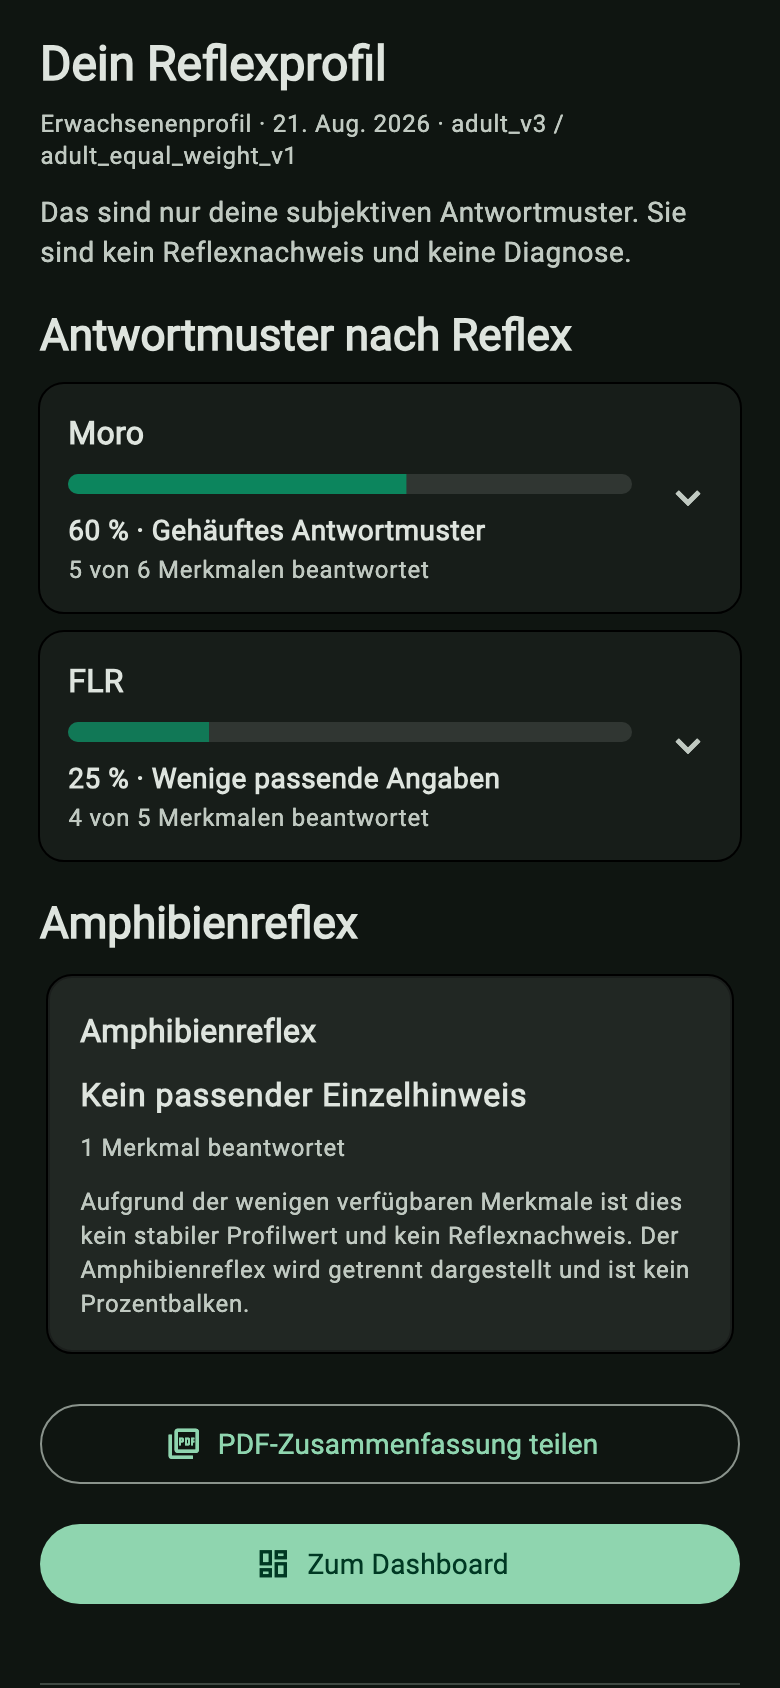
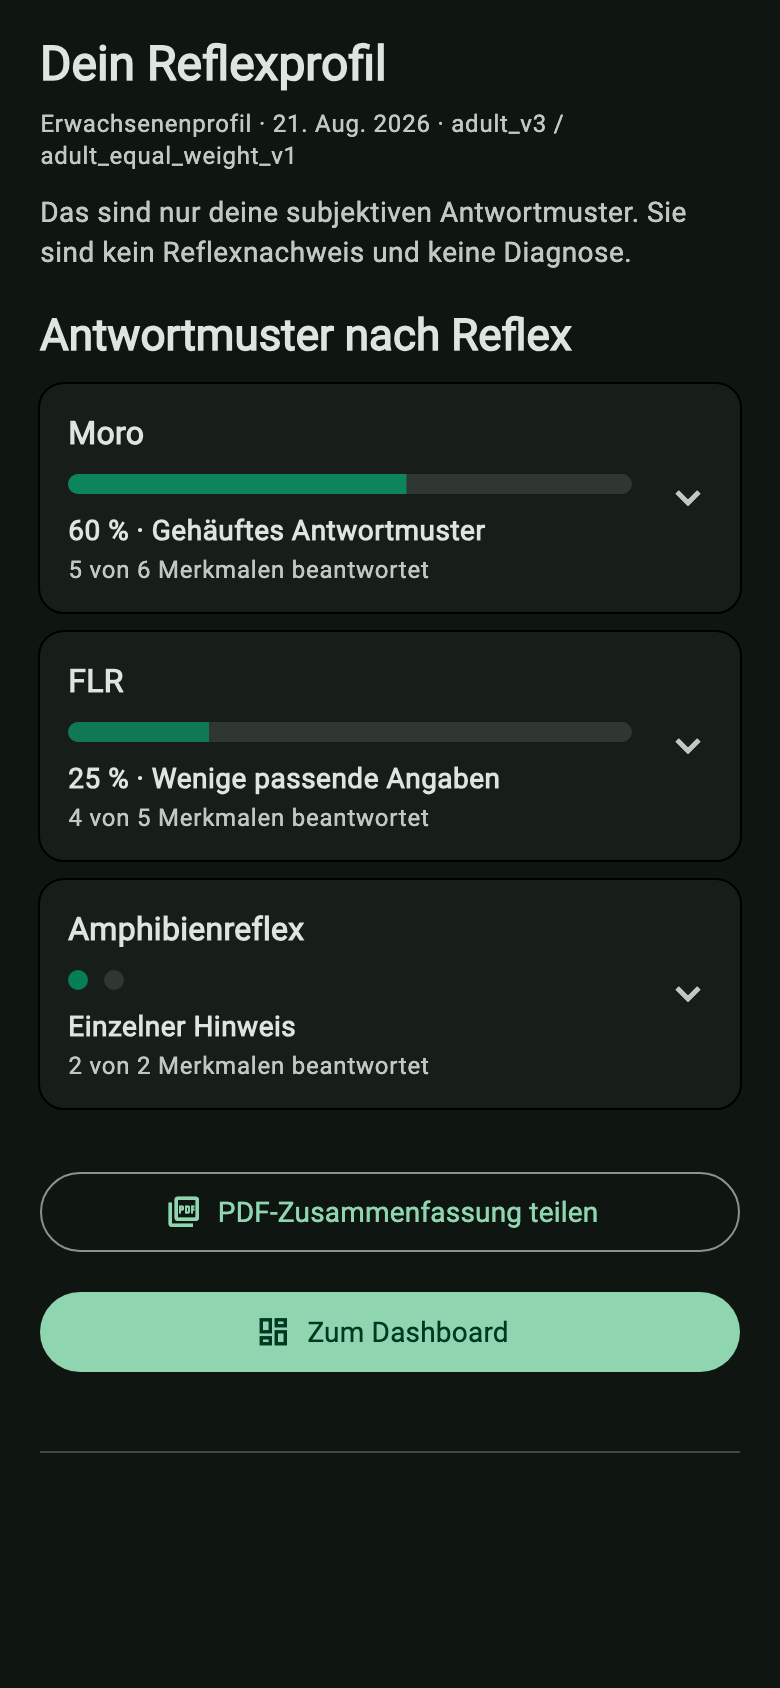
test(assessment)+docs(evidence): assert no amphibian caveat, refresh screenshots (P2.A)

diff --git a/test/features/assessment/presentation/adult_reflex_profile_result_view_test.dart b/test/features/assessment/presentation/adult_reflex_profile_result_view_test.dart
@@ -7,6 +7,8 @@ import 'package:corejourney/features/assessment/domain/adult_reflex_result_copy.
 import 'package:corejourney/features/assessment/domain/models/reflex_profile_assessment.dart';
 import 'package:corejourney/features/assessment/domain/reflex_questionnaire.dart';
 import 'package:corejourney/features/assessment/presentation/adult_score_band_l10n.dart';
+import 'package:corejourney/features/assessment/presentation/widgets/adult_amphibian_detail_tile.dart';
+import 'package:corejourney/features/assessment/presentation/widgets/adult_reflex_detail_tile.dart';
 import 'package:corejourney/features/assessment/presentation/widgets/adult_reflex_profile_result_view.dart';
 import 'package:corejourney/l10n/app_localizations.dart';
 import 'package:corejourney/l10n/app_localizations_de.dart';
@@ -118,10 +120,10 @@ void main() {
 
       expect(find.text('Dein Reflexprofil'), findsOneWidget);
       expect(find.textContaining('Gehäuftes Antwortmuster'), findsWidgets);
-      expect(find.text('1 Merkmal beantwortet'), findsOneWidget);
+      expect(find.text('1 von 2 Merkmalen beantwortet'), findsOneWidget);
       expect(find.textContaining('Gesamt'), findsNothing);
       expect(find.textContaining('Durchschnitt'), findsNothing);
-      expect(find.textContaining('von 2'), findsNothing);
+      expect(find.textContaining('Aufgrund der wenigen'), findsNothing);
     });
 
     testWidgets('legacy version shows legacy notice instead of bars',
@@ -208,72 +210,104 @@ void main() {
   });
 
   group('adult copy hygiene', () {
-    test('amphibian disclaimer matches adult_v3 Teil B §2 (DE first)', () {
+    test('adult result chrome has no amphibian justification copy', () {
       final de = AppLocalizationsDe();
       final en = AppLocalizationsEn();
-      expect(
-        de.adultResultAmphibianDisclaimer,
-        startsWith(
-          'Aufgrund der wenigen verfügbaren Merkmale ist dies kein stabiler '
-          'Profilwert und kein Reflexnachweis.',
-        ),
-      );
-      expect(de.adultResultAmphibianDisclaimer.contains('kein Reflexnachweis'),
-          isTrue);
-      expect(de.adultResultAmphibianDisclaimer.contains('stabiler Profilwert'),
-          isTrue);
-      expect(en.adultResultAmphibianDisclaimer.contains('stable profile value'),
-          isTrue);
-      expect(en.adultResultAmphibianDisclaimer.contains('reflex finding'),
-          isTrue);
+      final corpus = [
+        de.adultResultTitle,
+        de.adultResultDisclaimer,
+        de.adultResultHintListTitle,
+        de.adultAmphibianInsufficientData,
+        de.adultAmphibianNoneMatching,
+        de.adultAmphibianSingleHint,
+        de.adultAmphibianClearSingleHint,
+        de.adultResultLegacyBody,
+        en.adultResultTitle,
+        en.adultResultDisclaimer,
+        en.adultResultHintListTitle,
+        en.adultAmphibianInsufficientData,
+        en.adultAmphibianNoneMatching,
+        en.adultAmphibianSingleHint,
+        en.adultAmphibianClearSingleHint,
+        en.adultResultLegacyBody,
+      ].join('\n');
+
+      expect(corpus.contains('stabiler Profilwert'), isFalse);
+      expect(corpus.contains('Aufgrund der wenigen'), isFalse);
+      expect(corpus.contains('stable profile value'), isFalse);
+      expect(corpus.contains('few available features'), isFalse);
     });
 
-    testWidgets('amphibian disclaimer visible for every AmphibianDisplay',
+    testWidgets('amphibian card is last in same list with name once',
         (tester) async {
       final de = AppLocalizationsDe();
-      final disclaimer = de.adultResultAmphibianDisclaimer;
+      final amphName = PrimitiveReflex.amphibian.copy.label('de');
 
-      for (final display in AmphibianDisplay.values) {
-        final scores = AdultQuestionnaireScore(
-          scoringVersion: kAdultScoringVersion,
-          questionnaireVersion: 'adult_v3',
-          reflexScores: const {},
-          amphibian: AdultAmphibianScore(
-            positiveCount: display == AmphibianDisplay.clearSingleHint ? 2 : 0,
-            answeredCount:
-                display == AmphibianDisplay.insufficientData ? 0 : 1,
-            display: display,
-            showDisclaimer: false, // UI must show anyway
+      await tester.pumpWidget(
+        _harness(
+          child: AdultReflexProfileResultView(
+            assessment: _adultAssessment(scores: _sampleAdultScores()),
+            packageId: 'moro',
+            isFirstResultDisplay: false,
           ),
-          meta: const AdultScoreMeta(
-            hiddenItemIds: [],
-            notApplicableItemIds: [],
-            unknownItemIds: [],
-            noPublicTotalScore: true,
-            movementIncluded: false,
-            filterAnswers: {},
-          ),
-        ).toJson();
+        ),
+      );
+      await tester.pump();
+      await tester.pump(const Duration(milliseconds: 50));
 
-        await tester.pumpWidget(
-          _harness(
-            child: AdultReflexProfileResultView(
-              assessment: _adultAssessment(scores: scores),
-              packageId: 'moro',
-              isFirstResultDisplay: false,
-            ),
-          ),
-        );
-        await tester.pump();
-        await tester.pump(const Duration(milliseconds: 50));
+      expect(find.byType(AdultReflexDetailTile), findsNWidgets(2));
+      expect(find.byType(AdultAmphibianDetailTile), findsOneWidget);
+      expect(find.text(amphName), findsOneWidget);
 
-        expect(
-          find.text(disclaimer),
-          findsOneWidget,
-          reason: 'disclaimer missing for $display',
-        );
-        expect(find.text(amphibianDisplayLabel(de, display)), findsOneWidget);
-      }
+      final lastRegular = tester.getTopLeft(
+        find.byType(AdultReflexDetailTile).last,
+      );
+      final amph = tester.getTopLeft(find.byType(AdultAmphibianDetailTile));
+      expect(amph.dy, greaterThan(lastRegular.dy));
+
+      expect(find.text(de.adultAmphibianNoneMatching), findsOneWidget);
+      expect(find.textContaining('stabiler Profilwert'), findsNothing);
+      expect(find.textContaining('Aufgrund der wenigen'), findsNothing);
+    });
+
+    testWidgets('insufficientData shows short Keine Angaben label',
+        (tester) async {
+      final de = AppLocalizationsDe();
+      final scores = AdultQuestionnaireScore(
+        scoringVersion: kAdultScoringVersion,
+        questionnaireVersion: 'adult_v3',
+        reflexScores: const {},
+        amphibian: const AdultAmphibianScore(
+          positiveCount: 0,
+          answeredCount: 0,
+          display: AmphibianDisplay.insufficientData,
+          showDisclaimer: true,
+        ),
+        meta: const AdultScoreMeta(
+          hiddenItemIds: [],
+          notApplicableItemIds: [],
+          unknownItemIds: [],
+          noPublicTotalScore: true,
+          movementIncluded: false,
+          filterAnswers: {},
+        ),
+      ).toJson();
+
+      await tester.pumpWidget(
+        _harness(
+          child: AdultReflexProfileResultView(
+            assessment: _adultAssessment(scores: scores),
+            packageId: 'moro',
+            isFirstResultDisplay: false,
+          ),
+        ),
+      );
+      await tester.pump();
+      await tester.pump(const Duration(milliseconds: 50));
+
+      expect(find.text(de.adultAmphibianInsufficientData), findsOneWidget);
+      expect(de.adultAmphibianInsufficientData, 'Keine Angaben');
+      expect(find.text(de.adultHintBandInsufficientData), findsNothing);
     });
 
     test('band and amphibian labels exist in DE/EN', () {
@@ -290,6 +324,11 @@ void main() {
       expect(
         de.adultAmphibianInsufficientData,
         isNot(de.adultAmphibianNoneMatching),
+      );
+      expect(de.adultAmphibianInsufficientData, 'Keine Angaben');
+      expect(
+        de.adultAmphibianInsufficientData,
+        isNot(de.adultHintBandInsufficientData),
       );
     });
 
@@ -309,11 +348,9 @@ void main() {
       final corpus = [
         de.adultResultTitle,
         de.adultResultDisclaimer,
-        de.adultResultAmphibianDisclaimer,
         de.adultResultLegacyBody,
         en.adultResultTitle,
         en.adultResultDisclaimer,
-        en.adultResultAmphibianDisclaimer,
         en.adultResultLegacyBody,
         for (final copy in adultReflexResultCopyByReflex.values) ...[
           copy.shortDescriptionDe,

diff --git a/test/evidence/adult_reflexprofil_evidence_test.dart b/test/evidence/adult_reflexprofil_evidence_test.dart
@@ -10,6 +10,7 @@ import 'package:flutter_test/flutter_test.dart';
 import 'package:corejourney/core/theme/app_colors.dart';
 import 'package:corejourney/features/assessment/domain/adult_reflex_profile_scoring.dart';
 import 'package:corejourney/features/assessment/domain/models/reflex_profile_assessment.dart';
+import 'package:corejourney/features/assessment/domain/reflex_answer_json.dart';
 import 'package:corejourney/features/assessment/domain/reflex_questionnaire.dart';
 import 'package:corejourney/features/assessment/presentation/widgets/adult_answer_choice_grid.dart';
 import 'package:corejourney/features/assessment/presentation/widgets/adult_reflex_profile_result_view.dart';
@@ -52,9 +53,9 @@ Map<String, dynamic> _sampleScores() {
       ),
     },
     amphibian: const AdultAmphibianScore(
-      positiveCount: 0,
-      answeredCount: 1,
-      display: AmphibianDisplay.noneMatching,
+      positiveCount: 1,
+      answeredCount: 2,
+      display: AmphibianDisplay.singleHint,
       showDisclaimer: true,
     ),
     meta: const AdultScoreMeta(
@@ -71,6 +72,7 @@ Map<String, dynamic> _sampleScores() {
 ReflexProfileAssessment _assessment({
   required Map<String, dynamic> scores,
   String version = 'adult_v3',
+  Map<String, dynamic> answers = const {},
 }) {
   return ReflexProfileAssessment(
     id: 'evidence',
@@ -79,7 +81,7 @@ ReflexProfileAssessment _assessment({
     questionnaireVersion: version,
     scoringVersion: kAdultScoringVersion,
     status: 'completed',
-    answers: const {},
+    answers: answers,
     scores: scores,
     warningConfirmations: const [],
     safetyStatus: 'clear',
@@ -87,6 +89,16 @@ ReflexProfileAssessment _assessment({
     createdAt: DateTime(2026, 8, 21),
   );
 }
+
+/// One amphibian item matching → one filled dot (§10.2b evidence).
+Map<String, dynamic> _amphibianSampleAnswers() => {
+      's017': reflexAnswerToJson(
+        const ReflexAnswerValue(yesNoUnknown: true),
+      ),
+      's102': reflexAnswerToJson(
+        const ReflexAnswerValue(yesNoUnknown: false),
+      ),
+    };
 
 ThemeData _evidenceTheme({required Brightness brightness}) {
   final base = ThemeData(
@@ -234,7 +246,7 @@ void main() {
         key: lightKey,
         brightness: Brightness.light,
         child: AdultReflexProfileResultView(
-          assessment: _assessment(scores: _sampleScores()),
+          assessment: _assessment(scores: _sampleScores(), answers: _amphibianSampleAnswers()),
           packageId: 'moro',
           isFirstResultDisplay: false,
         ),
@@ -249,7 +261,7 @@ void main() {
         key: darkKey,
         brightness: Brightness.dark,
         child: AdultReflexProfileResultView(
-          assessment: _assessment(scores: _sampleScores()),
+          assessment: _assessment(scores: _sampleScores(), answers: _amphibianSampleAnswers()),
           packageId: 'moro',
           isFirstResultDisplay: false,
         ),
@@ -315,7 +327,7 @@ void main() {
         key: inviteKey,
         brightness: Brightness.light,
         child: AdultReflexProfileResultView(
-          assessment: _assessment(scores: _sampleScores()),
+          assessment: _assessment(scores: _sampleScores(), answers: _amphibianSampleAnswers()),
           packageId: 'moro',
           isFirstResultDisplay: false,
         ),

diff --git a/docs/evidence/adult-reflexprofil/README.md b/docs/evidence/adult-reflexprofil/README.md
@@ -15,8 +15,8 @@ group by 1, 2, 3;
 
 | File | Content |
 |------|---------|
-| `01_adult_result_light.png` | Adult_v3 result, light theme |
-| `02_adult_result_dark.png` | Adult_v3 result, dark theme |
+| `01_adult_result_light.png` | Adult_v3 result, light — Amphibien as last card with two dots (§10.2b) |
+| `02_adult_result_dark.png` | Adult_v3 result, dark |
 | `03_adult_result_legacy.png` | Legacy-method notice |
 | `04_adult_answer_grid_2x2.png` | Four-way answer grid (Ja/Nein/?/n.z.) |
 | `adult_result_invite_placement.png` | Result with invite slot below export actions (§10.2a) |
